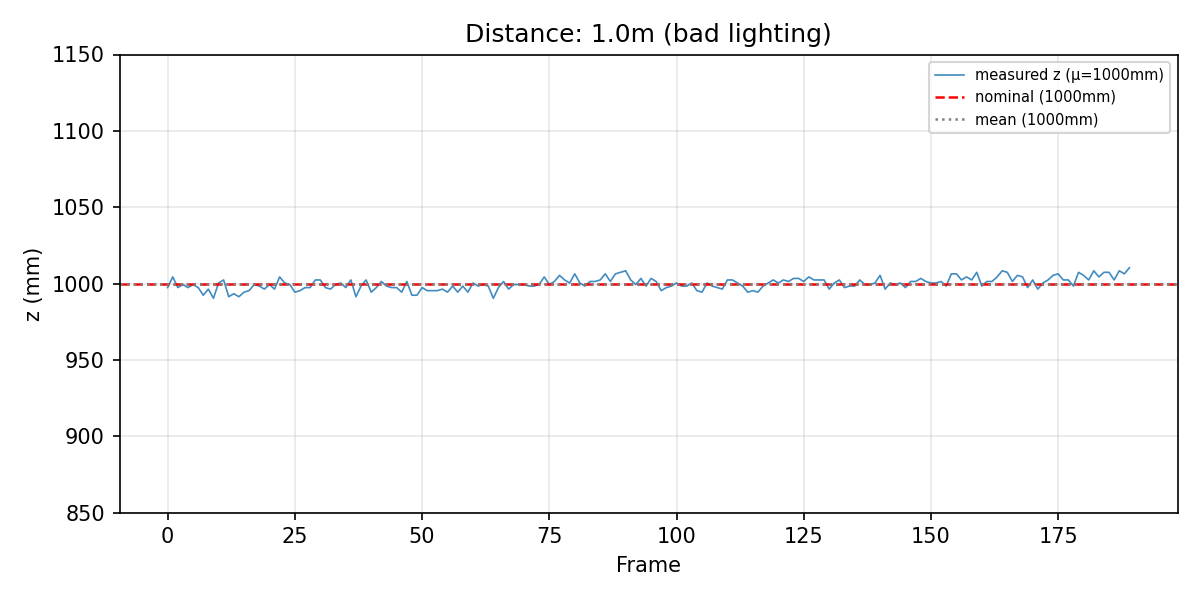
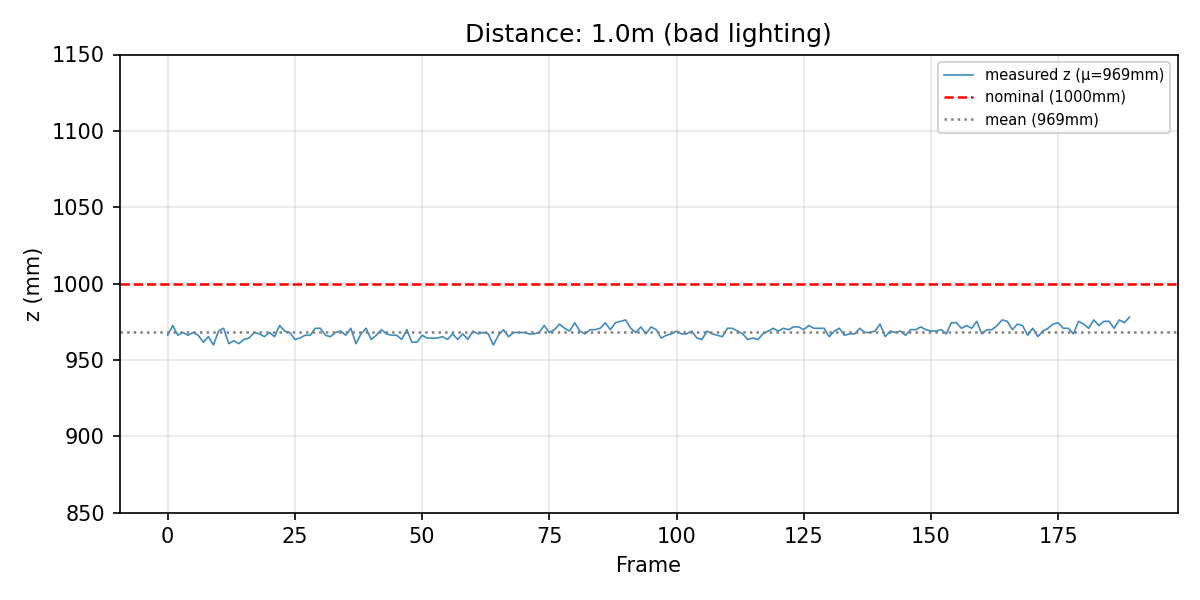
Add z-accuracy recording script and bad-lighting calibration graphs
record.py logs spatial-detection z readings to accuracy_log.csv; graph.py
plots them per distance against nominal using the pipeline's calibrate_z.
Z_CALIBRATION_ANCHORS in main_2025.py gain the 2.5m anchor so the graphs
reflect the shipped calibration.

diff --git a/record.py b/record.py
@@ -1,0 +1,163 @@
+"""
+Accuracy recording script for OAK-D depth calibration.
+
+Controls:
+  Press 1 → 5s countdown then record 10s at 0.5m
+  Press 2 → 5s countdown then record 10s at 1.0m
+  Press 3 → 5s countdown then record 10s at 1.5m
+  Press 4 → 5s countdown then record 10s at 2.0m
+  Press 5 → 5s countdown then record 10s at 3.0m
+  Press s → stop recording early
+  Press q → quit
+"""
+
+import csv
+import pathlib
+import time
+
+import cv2
+import depthai as dai
+import yaml
+
+from modules.target_tracking.stereo_node import create_stereo_depth
+from modules.target_tracking.spatial_detection_node import create_spatial_detection_network
+from modules.target_tracking.object_tracker_node import create_object_tracker
+
+REPO_DIR = pathlib.Path(__file__).parent
+CONFIG_FILE_PATH = REPO_DIR / "config.yaml"
+LOG_FILE = REPO_DIR / "accuracy_log.csv"
+OUTPUT_QUEUE_SIZE = 4
+COUNTDOWN_SECS = 5
+RECORD_SECS = 10
+
+DISTANCE_KEYS = {
+    ord("1"): "0.5m",
+    ord("2"): "1.0m",
+    ord("3"): "1.5m",
+    ord("4"): "2.0m",
+    ord("5"): "3.0m",
+}
+
+
+def main() -> None:
+    """Run the recording pipeline."""
+    with open(CONFIG_FILE_PATH, "r", encoding="utf-8") as f:
+        config = yaml.safe_load(f)
+    model_name: str = config["spatial_detection"]["model_name"]
+
+    write_header = not LOG_FILE.exists() or LOG_FILE.stat().st_size == 0
+    log_file = open(LOG_FILE, "a", newline="", encoding="utf-8")  # noqa: SIM115
+    writer = csv.writer(log_file)
+    if write_header:
+        writer.writerow(["timestamp", "test_distance", "target_id", "x_mm", "y_mm", "z_mm"])
+
+    active_distance: str = ""
+    countdown_until: float = 0.0
+    countdown_target: str = ""
+    logging_until: float = 0.0
+
+    print("Controls: [1]=0.5m  [2]=1.0m  [3]=1.5m  [4]=2.0m  [5]=3.0m  [s]=stop  [q]=quit")
+
+    with dai.Pipeline() as pipeline:
+        stereo = create_stereo_depth(pipeline)
+        spatial_detection = create_spatial_detection_network(pipeline, stereo, model_name)
+        tracker = create_object_tracker(pipeline, spatial_detection)
+
+        tracklet_queue = tracker.out.createOutputQueue(maxSize=OUTPUT_QUEUE_SIZE, blocking=False)
+        preview_queue = tracker.passthroughTrackerFrame.createOutputQueue(
+            maxSize=OUTPUT_QUEUE_SIZE, blocking=False
+        )
+
+        pipeline.start()
+        while pipeline.isRunning():
+            tracklets_msg = tracklet_queue.get()
+            frame_msg = preview_queue.get()
+            frame = frame_msg.getCvFrame()
+            now = time.time()
+
+            if countdown_until and now >= countdown_until:
+                active_distance = countdown_target
+                logging_until = now + RECORD_SECS
+                countdown_until = 0.0
+                countdown_target = ""
+                print(f"\n--- Recording {active_distance} for {RECORD_SECS}s ---")
+
+            if active_distance and now >= logging_until:
+                print(f"\n--- Done recording {active_distance} ---")
+                active_distance = ""
+                logging_until = 0.0
+
+            for tracklet in tracklets_msg.tracklets:
+                if tracklet.status != dai.Tracklet.TrackingStatus.TRACKED:
+                    continue
+
+                roi = tracklet.roi.denormalize(frame.shape[1], frame.shape[0])
+                x_mm = tracklet.spatialCoordinates.x
+                y_mm = tracklet.spatialCoordinates.y
+                z_mm = tracklet.spatialCoordinates.z
+
+                if active_distance:
+                    writer.writerow(
+                        [
+                            round(now, 3),
+                            active_distance,
+                            tracklet.id,
+                            round(x_mm),
+                            round(y_mm),
+                            round(z_mm),
+                        ]
+                    )
+                    log_file.flush()
+
+                cv2.rectangle(
+                    frame,
+                    (int(roi.topLeft().x), int(roi.topLeft().y)),
+                    (int(roi.bottomRight().x), int(roi.bottomRight().y)),
+                    (0, 255, 0),
+                    2,
+                )
+                cv2.putText(
+                    frame,
+                    f"ID {tracklet.id} | {z_mm:.0f}mm",
+                    (int(roi.topLeft().x), int(roi.topLeft().y) - 8),
+                    cv2.FONT_HERSHEY_SIMPLEX,
+                    0.5,
+                    (0, 255, 0),
+                    1,
+                )
+
+            if countdown_until:
+                secs_left = max(0, int(countdown_until - now) + 1)
+                label = f"Get ready ({countdown_target})... {secs_left}s"
+                color = (0, 140, 255)
+            elif active_distance:
+                secs_left = max(0, int(logging_until - now) + 1)
+                label = f"Recording {active_distance}... {secs_left}s"
+                color = (0, 200, 100)
+            else:
+                label = "Idle  [1]=0.5m [2]=1.0m [3]=1.5m [4]=2.0m [5]=3.0m"
+                color = (160, 160, 160)
+            cv2.putText(frame, label, (10, 24), cv2.FONT_HERSHEY_SIMPLEX, 0.6, color, 2)
+
+            cv2.imshow("Record Accuracy", frame)
+            key = cv2.waitKey(1) & 0xFF
+
+            if key == ord("q"):
+                break
+            elif key in DISTANCE_KEYS:
+                countdown_until = time.time() + COUNTDOWN_SECS
+                countdown_target = DISTANCE_KEYS[key]
+                active_distance = ""
+                print(f"\n--- {COUNTDOWN_SECS}s countdown — stand at {DISTANCE_KEYS[key]} ---")
+            elif key == ord("s"):
+                print(f"\n--- Stopped ({active_distance or countdown_target}) ---")
+                active_distance = ""
+                countdown_until = 0.0
+                countdown_target = ""
+
+    log_file.close()
+    print(f"Saved to {LOG_FILE}")
+
+
+if __name__ == "__main__":
+    main()

diff --git a/graph.py b/graph.py
@@ -1,0 +1,98 @@
+"""
+Generates z-accuracy graphs from accuracy_log.csv.
+Shows raw z vs nominal per distance.
+Run: python3 graph.py
+"""
+
+import pathlib
+
+import matplotlib.pyplot as plt
+import pandas as pd
+
+from main_2025 import calibrate_z
+
+REPO_DIR = pathlib.Path(__file__).parent
+LOG_FILE = REPO_DIR / "accuracy_log.csv"
+OUT_DIR = REPO_DIR / "graphs"
+
+NOMINAL_MM = {
+    "0.5m": 500,
+    "1.0m": 1000,
+    "1.5m": 1500,
+    "2.0m": 2000,
+    "2.5m": 2500,
+    "3.0m": 3000,
+}
+
+COLORS = ["tab:orange", "tab:blue", "tab:green", "tab:red", "tab:purple"]
+
+Y_MARGIN_MM = 150  # fixed ±margin around nominal for consistent scale across all panels
+Y_LIMITS = {
+    "0.5m": (250, 750),  # nominal ±250 — keeps the 500mm nominal line centered
+    "2.0m": (1800, 2200),
+    "3.0m": (2700, 3300),
+}  # per-distance overrides
+
+
+def plot_distance(ax, dist, raw_z, nominal, color):
+    """Plot a single distance panel — usual pipeline calibration applied."""
+    z = raw_z.apply(calibrate_z)
+    mean_z = z.mean()
+    ax.plot(
+        z.index, z, color=color, linewidth=0.8, alpha=0.85, label=f"measured z (μ={mean_z:.0f}mm)"
+    )
+    if nominal:
+        ax.axhline(
+            nominal, color="red", linestyle="--", linewidth=1.2, label=f"nominal ({nominal}mm)"
+        )
+    ax.axhline(mean_z, color="gray", linestyle=":", linewidth=1.2, label=f"mean ({mean_z:.0f}mm)")
+    ymin, ymax = Y_LIMITS.get(dist, (nominal - Y_MARGIN_MM, nominal + Y_MARGIN_MM))
+    ax.set_ylim(ymin, ymax)
+    ax.set_title(f"Distance: {dist} (bad lighting)")
+    ax.set_xlabel("Frame")
+    ax.set_ylabel("z (mm)")
+    ax.legend(fontsize=7)
+    ax.grid(True, alpha=0.3)
+
+
+def main() -> None:
+    """Read CSV and produce combined + individual PNGs per distance."""
+    df = pd.read_csv(LOG_FILE)
+    OUT_DIR.mkdir(exist_ok=True)
+
+    distances = sorted(df["test_distance"].unique())
+    n = len(distances)
+
+    fig, axes = plt.subplots(1, n, figsize=(5 * n, 4), sharey=False)
+    if n == 1:
+        axes = [axes]
+    fig.suptitle("OAK-D SpatialDetectionNetwork — z accuracy over time (bad lighting)", fontsize=13)
+
+    for ax, dist, color in zip(axes, distances, COLORS):
+        subset = df[df["test_distance"] == dist].copy().sort_values("timestamp")
+        raw_z = subset["z_mm"].reset_index(drop=True)
+        nominal = NOMINAL_MM.get(dist)
+        plot_distance(ax, dist, raw_z, nominal, color)
+
+    fig.tight_layout()
+    out_path = OUT_DIR / "z_accuracy_all_bad_lighting.png"
+    fig.savefig(out_path, dpi=150)
+    plt.close(fig)
+    print(f"Saved {out_path}")
+
+    for dist, color in zip(distances, COLORS):
+        subset = df[df["test_distance"] == dist].copy().sort_values("timestamp")
+        raw_z = subset["z_mm"].reset_index(drop=True)
+        nominal = NOMINAL_MM.get(dist)
+
+        fig2, ax2 = plt.subplots(figsize=(8, 4))
+        plot_distance(ax2, dist, raw_z, nominal, color)
+        fig2.tight_layout()
+        fname = OUT_DIR / f"z_{dist.replace('.', '_')}_bad_lighting.png"
+        fig2.savefig(fname, dpi=150)
+        plt.close(fig2)
+        print(f"Saved {fname}")
+
+
+if __name__ == "__main__":
+    main()

diff --git a/main_2025.py b/main_2025.py
@@ -17,15 +17,15 @@ CONFIG_FILE_PATH = pathlib.Path("config.yaml")
 OUTPUT_QUEUE_SIZE = 4
 
 # Z-bias calibration anchors: (raw_z_mm, offset_mm_to_subtract).
-# Measured at 0.5/1.0/1.5/2.0m; final (2200, 0) tapers smoothly to factory calibration.
+# Measured at 0.5/1.0/1.5/2.0/2.5m; final anchor tapers smoothly to factory calibration.
 # Beyond the last anchor the raw camera value is trusted as-is.
-# See documentation/accuracy/calibration.png for the fit visualization.
 Z_CALIBRATION_ANCHORS = (
-    (527.0, 27.5),  # 0.5m
-    (1075.0, 75.1),  # 1.0m
-    (1573.0, 73.2),  # 1.5m
-    (1951.0, -48.7),  # 2.0m
-    (2200.0, 0.0),  # taper end — trust factory beyond this
+    (527.5, 27.5),  # 0.5m
+    (1075.1, 75.1),  # 1.0m
+    (1573.2, 73.2),  # 1.5m
+    (1893.1, -106.9),  # 2.0m
+    (2599.2, 99.2),  # 2.5m
+    (2800.0, 0.0),  # taper end — trust factory beyond this
 )
 
 

diff --git a/modules/target_tracking/object_tracker_node.py b/modules/target_tracking/object_tracker_node.py
@@ -36,6 +36,7 @@ def create_object_tracker(
     tracker.setDetectionLabelsToTrack([PERSON_CLASS_ID])
     tracker.setTrackerType(TRACKER_TYPE)
     tracker.setTrackerIdAssignmentPolicy(ASSIGNMENT_POLICY)
+    tracker.setRunOnHost(True)
 
     # passthrough provides the preview frame used to extract appearance features
     spatial_detection.passthrough.link(tracker.inputTrackerFrame)
